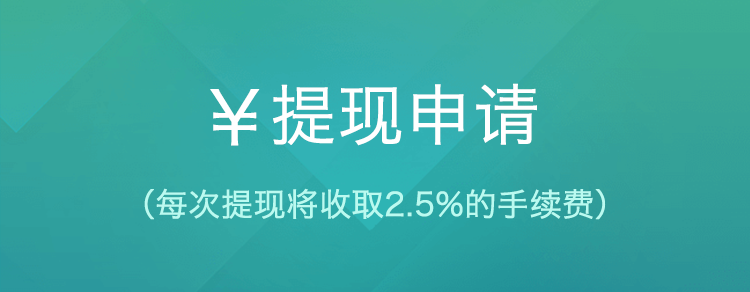
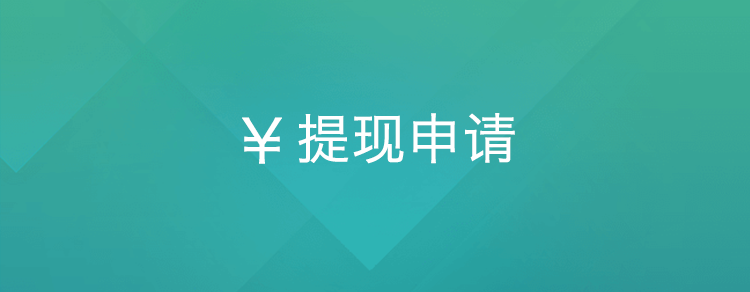
201805261440

Changed region(s): [[0.276, 0.2774, 0.736, 0.5548], [0.184, 0.6473, 0.828, 0.7705]]

diff --git a/Xiu_Game/public/css/extract.css b/Xiu_Game/public/css/extract.css
@@ -1,6 +1,6 @@
 .head_bg{
     height:25%;
-    background:url(/img/other/tixian.png?v=201805241);
+    background:url(/img/other/tixian.png);
     background-size:100% 100%;
 }
 .input_number{

diff --git a/Xiu_Game/app/Http/Controllers/BackCashController.php b/Xiu_Game/app/Http/Controllers/BackCashController.php
@@ -134,7 +134,7 @@ class BackCashController extends Controller
             else{
                 //生成订单号
                 $openid = $data[0]->wxopenid;
-                $amount = ($gold-$gold*0.025)*100;//扣除2.5%手续费
+                $amount = $gold*100;//扣除2.5%手续费
                 $orderno = WxPayConfig::MCHID . date("YmdHis");
                 //发起提现，并返回提现结果
                 $result = $this->GetExtract($openid,$orderno,$amount);
